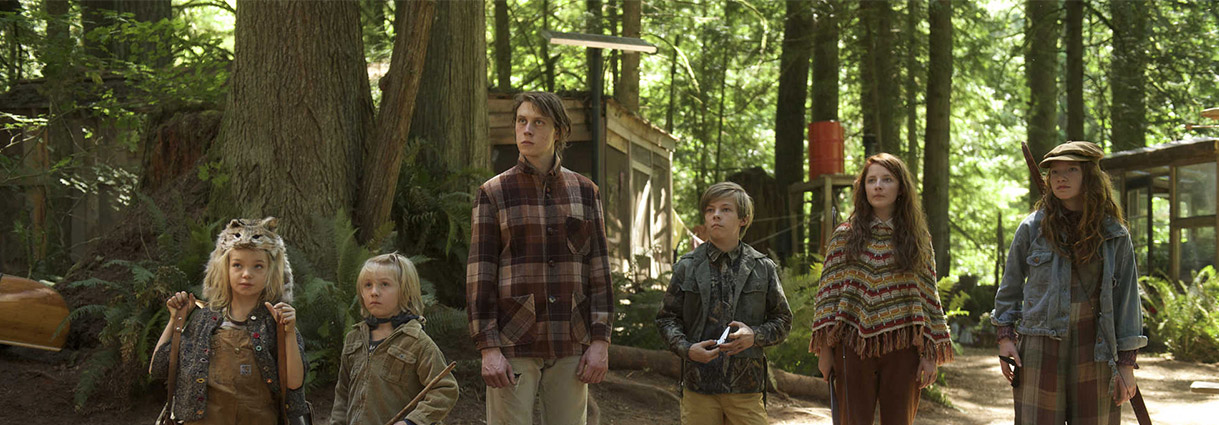
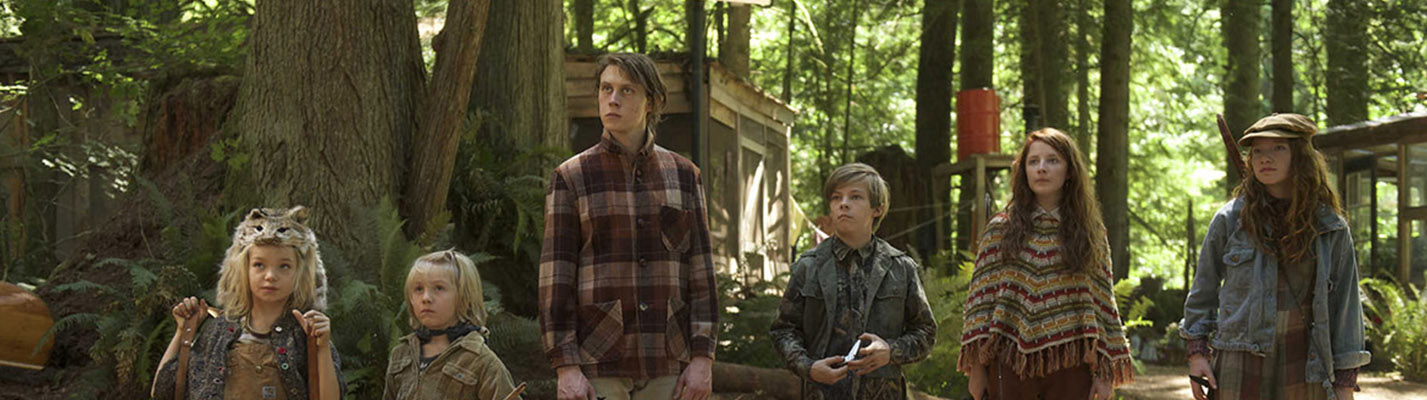
featured film page finished

diff --git a/indiespot/capt.html b/indiespot/capt.html
@@ -1,0 +1,100 @@
+<!doctype html>
+<html lang="en">
+	<head>
+		<meta charset="utf-8" />
+		<title>IndieSpot</title>
+		<link href="https://fonts.googleapis.com/css?family=Raleway:400,500,900" rel="stylesheet">
+		<link href="https://fonts.googleapis.com/css?family=Open+Sans:400,700" rel="stylesheet">
+		<link rel="stylesheet" href="css/main.css" />
+	</head>
+	<body>
+		<div id="wrapper">
+			<header>
+				<a href="index.html"><h1>Indie<span>Spot</span></h1></a>
+				<nav>
+					<ul>
+						<li><a href="#">Films</a></li>
+						<li><a href="#">Events</a></li>
+						<li><a href="#" id="tix">Tickets</a></li>
+					</ul>
+				</nav>
+			</header>
+
+			<section id="topImg">
+				<img src="images/captfan.jpg" alt="six kids standing in the woods" />
+			</section>
+
+			<section id="aside">
+				<aside>
+					<h2>Showtimes</h2>
+					<p>Click showtime to purchase tickets:</p>
+					<ul>
+						<li><a href="#">Wed, 8-17, 6:30pm</a></li>
+						<li><a href="#">Wed, 8-17, 9:30pm</a></li>
+						<li><a href="#">Thu, 8-18, 6:30pm</a></li>
+						<li><a href="#">Thu, 8-18, 9:30pm</a></li>
+					</ul>
+					<p><a href="#">Click here for more showtimes</a></p>
+				</aside>
+
+				<div id="reviews">
+
+					<p>“Triumphant and spirited… a funny film that will have you in tears.”<br>
+					<span class="source">-Huffington Post</span></p>
+
+					<p>“Funny and surprisingly raw… strikes precisely the right balance of fascination and admiration with wry cynicism and genuine concern.”<br>
+					<span>-John Bailey, <span class="source">flavorware</span></span></p>
+
+					<p>“Finely wrought and inventive, CAPTAIN FANTASTIC surely earns the lofty praise of its title.”<br>
+					<span>-Brian Moylan, <span class="source">the guardian</span></span></p>
+
+					<p>“Charmingly eccentric, sweet and funny. Viggo Mortensen is terrific.”<br>
+					<span class="source">-entertainment weekly</span></p>
+
+					<p>“Heartwarming and offbeat.”<br>
+					<span class="source">-vanity fair</span></p>
+
+				</div>
+
+			</section>
+
+			<section id="feature">
+				<div class="container">
+					<img src="images/feature-lights.png" alt="feature" />
+
+					<h2>Captian Fantastic</h2>
+					<div class="synp">
+						<p>Ben (Viggo Mortensen) lives with his wife and six young children, isolated from society deep in the forest of the Pacific Northwest. A devoted father, Ben dedicates his life to transforming his kids into extraordinary adults. He immerses them in an academically and physically rigorous environment and instills in them a rare and primal connection to the natural world.</p>
+
+						<p>When a tragedy strikes, the family is forced to leave their self-created paradise. Suddenly the children must face the excitement and the perils of an unfamiliar outside world while Ben is compelled to reexamine his idea of what it means to be a parent.</p>
+
+						<p><span>Closed Captioning Available.</span></p>
+
+						<p>USA, 2016, 118 min, Rated R, Directed by Matt Ross</p>
+					</div>
+
+					<h3>Watch Trailer</h3>
+
+					<iframe width="560" height="315" src="https://www.youtube.com/embed/D1kH4OMIOMc" frameborder="0" allowfullscreen></iframe>
+				</div>
+			</section>
+
+			<footer>
+				<article>
+					<h4>Tickets</h4>
+					<p>Regular Ticket Pricing $11.00</p>
+					<p>Student/Senior/Military(with ID) $9.00</p>
+					<p>Matinees $9.00</p>
+				</article>
+
+				<article>
+					<h4>Contact</h4>
+					<p>1234 South Orange Blvd</p>
+					<p>Orlando, Florida 32792</p>
+					<p>Information Line: (407) 456-8735</p>
+					<p>Theater Offices: (407) 237-8645</p>
+				</article>
+			</footer>
+		</div>
+	</body>
+</html>

diff --git a/indiespot/css/main.css b/indiespot/css/main.css
@@ -16,8 +16,14 @@ header {
 
 h1 {
 	float: left;
+	width: 21.02312544%; /* 300 / 1427 */
 	color: #009FB7;
 	margin-left: 2.102312544%; 
+}
+
+h1 a {
+	color: #009FB7;
+	text-decoration: none;
 }
 
 h2 {
@@ -28,6 +34,7 @@ h2 {
 
 nav {
 	float: right;
+	width: 21.02312544%; /* 300 */
 }
 
 nav ul {
@@ -36,11 +43,12 @@ nav ul {
 	overflow: hidden;
 	margin-bottom: 0;
 	margin-top: 0;
-	width: 100%;
 }
 
 nav li {
 	float: left;
+	width: 92px;
+	text-align: center;
 }
 
 nav li a {
@@ -122,12 +130,16 @@ img {
 	margin-left: 4.761904762%; /* 50 / 1050 */ 
 }
 
-#nowPlaying h3 {
+#nowPlaying h3 a {
 	font-size: 2em;
 	color: #B02E0C;
 	font-weight: 600;
 	font-style: italic;
+	text-decoration: none;
+	border-bottom: 2px solid #B02E0C;
 }
+
+
 
 /* events 
 ==============================*/
@@ -155,7 +167,7 @@ img {
 }
 
 .info h3 {
-	color:  #B02E0C;
+	color: #B02E0C;
 	font-size: 1.5em;
 }
 
@@ -165,6 +177,8 @@ img {
 footer {
 	overflow: hidden;
 	font-style: italic;
+	clear: right;
+	background: #e7e7e7;
 }
 
 footer article {
@@ -180,6 +194,104 @@ footer article:last-of-type {
 
 footer article h4 {
 	color: #B02E0C;
+}
+
+
+/* film info page
+==============================*/ 
+
+#topImg img {
+	width: 100%;
+	margin: 0 auto;
+}
+
+#aside {
+	float: right;
+	width: 23.47582341%; /* 335 / 1427 */
+	margin-top: 1.401541696%; /* 20 / 1427 */
+	margin-right: 1.401541696%; /* 20 / 1427 */
+}
+
+aside {
+	padding: 4.47761194%; /* 15 / 335 */
+	text-align: left;
+	background: rgba(254, 215, 102, .4); 
+}
+
+aside ul {
+	list-style: none;
+	margin-top: 1.492537313%; /* 5 / 335 */
+	border-top: 2px dotted #494949;
+	border-bottom: 2px dotted #494949;
+	width: 59.70149254%; /* 200 / 335 */
+}
+
+aside a{
+	line-height: 30px;
+	font-style: italic;
+	text-decoration: none;
+	color: #494949;
+}
+
+aside li a:hover {
+	background: transparent;
+}
+
+aside h2 {
+	font-size: 2.5em;
+	text-align: left;
+	margin-bottom: 0;
+	margin-top: 1.492537313%; /* 5 / 335 */
+}
+
+
+img[src*=feature-lights]{
+	height: 7.5%;
+	width: 30%; /* 300 / 1000 */
+	margin-top: 2%; /* 200 / 1000 */
+}
+
+#feature h2 {
+	text-align: left;
+	padding-bottom: .8333333333%; /* 5 / 600 */
+	border-bottom: 2px solid #494949;
+	width: 60%; /* 600 / 1000 */
+}
+
+#feature .synp {
+	width: 700px;
+}
+
+#feature .container {
+	width: 1000px;
+}
+
+#feature h3 {
+	color: #B02E0C;
+	font-size: 2em;
+	font-family: 'Raleway', sans-serif;
+	padding-bottom: .8333333333%;
+	border-bottom: 2px solid #494949;
+	width: 60%;
+}
+
+#reviews p {
+	color: #009FB7;
+	font-size: 1.10em;
+	line-height: 30px;
+}
+
+p span {
+	font-weight: 600;
+}
+
+.source {
+	font-weight: bold;
+	text-transform: uppercase;
+}
+
+.synp p:last-of-type{
+	font-size: .8em
 }
 
 

diff --git a/indiespot/index.html b/indiespot/index.html
@@ -10,7 +10,7 @@
 	<body>
 		<div id="wrapper">
 			<header>
-				<h1>Indie<span>Spot</span></h1>
+				<a href="index.html"><h1>Indie<span>Spot</span></h1></a>
 				<nav>
 					<ul>
 						<li><a href="#">Films</a></li>
@@ -33,9 +33,9 @@
 					<h2>Now Playing</h2>
 					
 					<article id="npCard">
-						<img src="images/fantasticPoster.jpg" alt="Two parents and six kids standing" />
+						<a href="capt.html"><img src="images/fantasticPoster.jpg" alt="Two parents and six kids standing" /></a>
 
-						<h3>Captian Fantastic</h3>
+						<h3><a href="capt.html">Captian Fantastic</a></h3>
 
 						<p class="button">Tickets</p>
 					</article>
@@ -43,7 +43,7 @@
 					<article id="npCard">
 						<img src="images/fangPoster.jpg" alt="the fang singlings holding hands and walking away from their parents" />
 
-						<h3>The Family Fang</h3>
+						<h3><a href="#">The Family Fang</a></h3>
 
 						<p class="button">Tickets</p>
 					</article>
